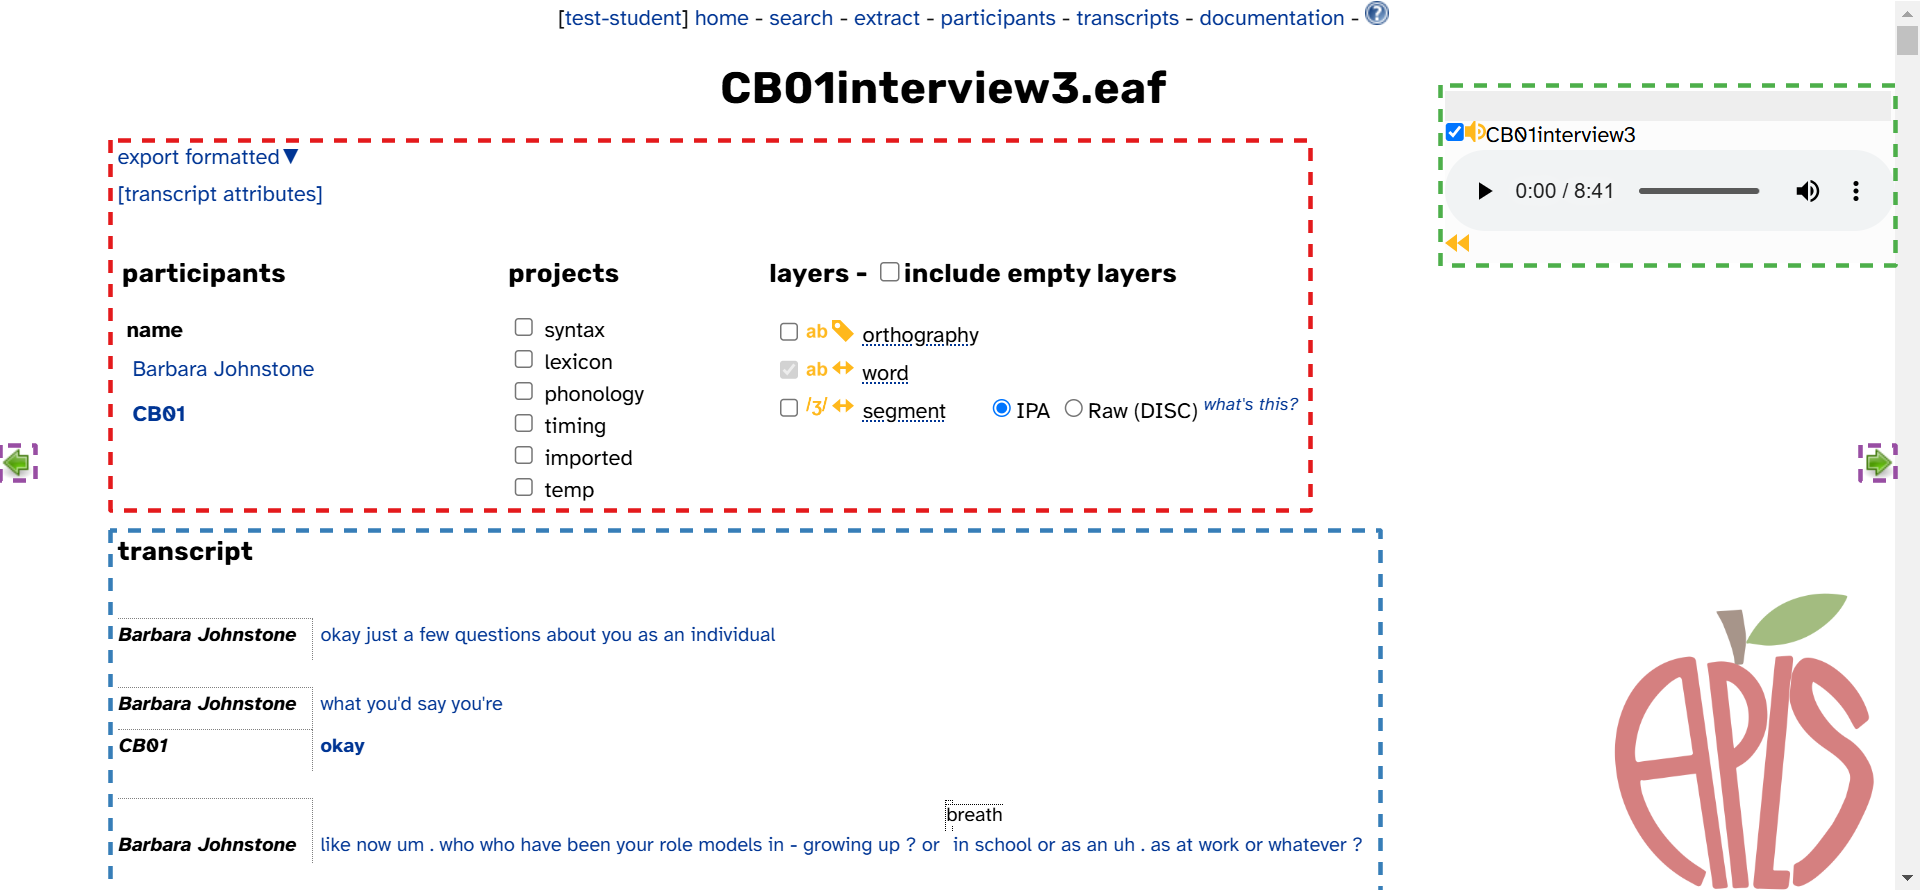
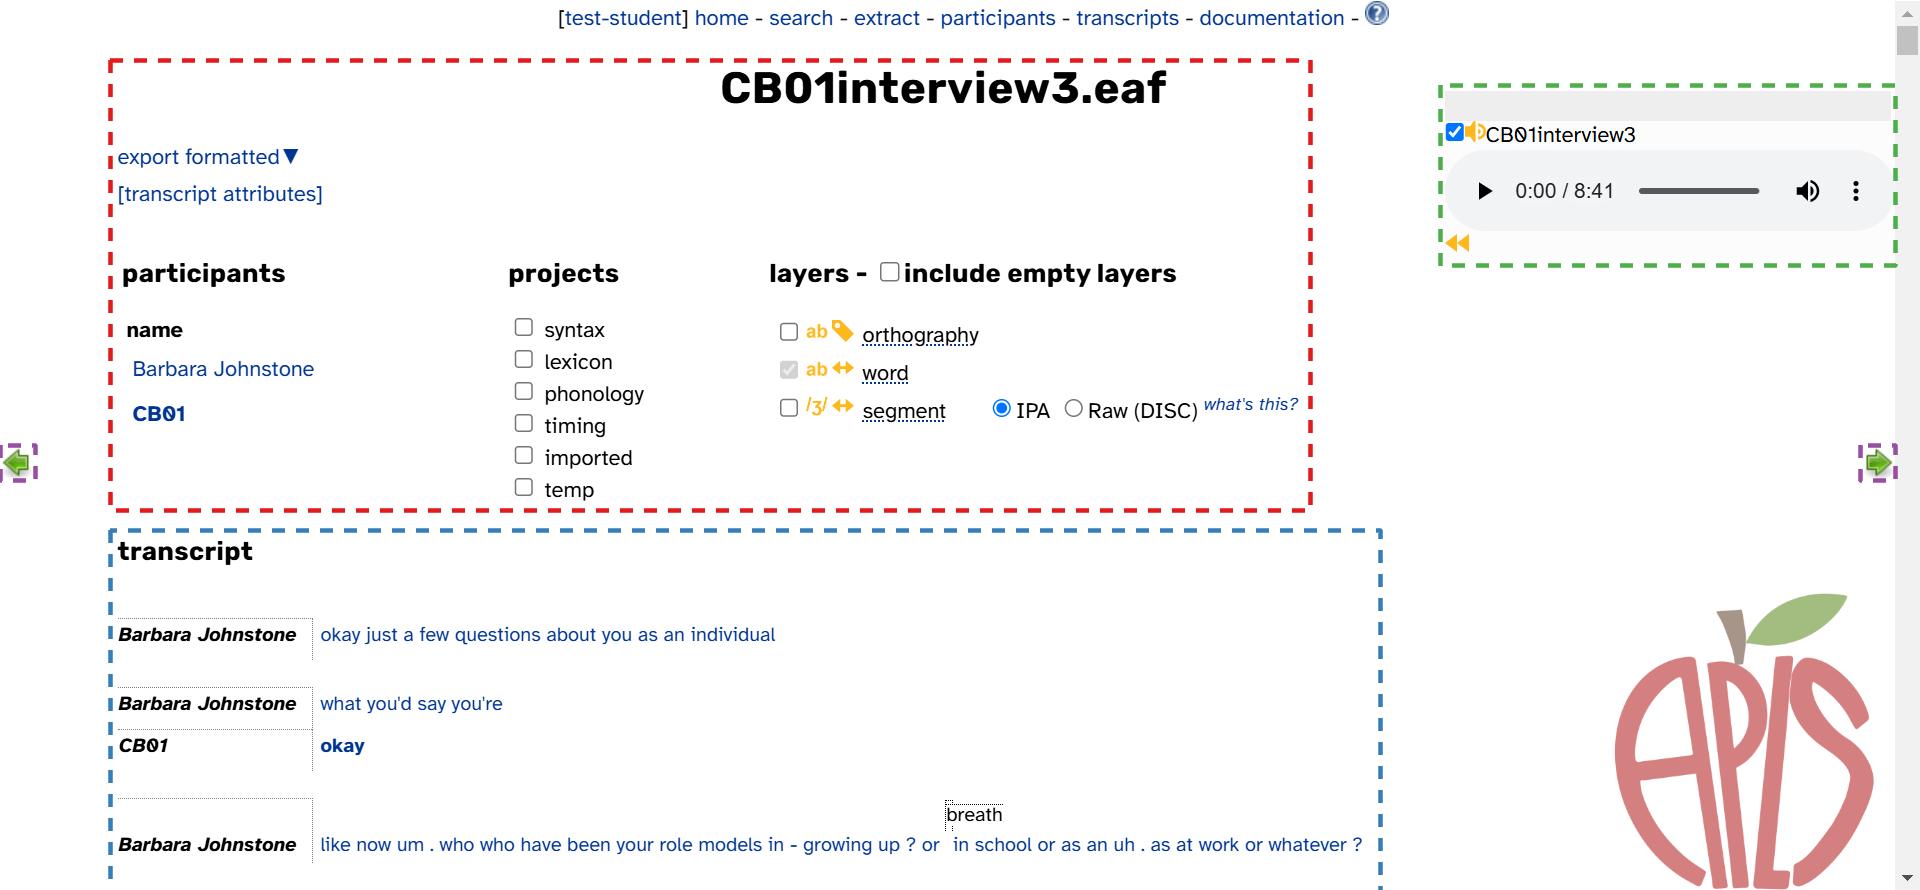
view-transcript: Add try-its, more content on transcript header

diff --git a/_includes/linklist.html b/_includes/linklist.html
@@ -1,3 +1,4 @@
+[bird and liberman 1999]: https://arxiv.org/abs/cs/9903003
 [celex]: https://catalog.ldc.upenn.edu/LDC96L14
 [elan]: https://archive.mpi.nl/tla/elan
 [fromont 2017]: http://doi.org/10.1016/j.csl.2017.01.004

diff --git a/doc/how-to-use/view-transcript.md b/doc/how-to-use/view-transcript.md
@@ -5,15 +5,18 @@ parent: How to use APLS
 has_children: yes
 has_toc: no
 nav_order: 20
-last_modified_date: 2025-02-11T16:19:05-05:00
+last_modified_date: 2025-02-24T13:13:59-05:00
 ---
 
 # {{ page.title }}
 {:.no_toc}
 
-A <span class="keyterm">transcript</span> is a collection of <span class="keyterm">annotations</span> on numerous <span class="keyterm">layers</span> corresponding to a single audio file, plus metadata like when the audio file was originally recorded.
+A <span class="keyterm">transcript</span> is a collection of <span class="keyterm">annotations</span> on numerous <span class="keyterm">layers</span> corresponding to a single audio file, plus <span class="keyterm">transcript attributes</span> like when the audio file was originally recorded.
 In APLS, each transcript has a single <span class="keyterm">main participant</span> and corresponds to a section of that participant's sociolinguistic interview.
 Each transcript has its own page in APLS.
+
+{: .note .no-collapse }
+> On this page, we use the term _transcript_ for the underlying data in the APLS corpus, and _transcript **page**_ for the webpage you can use to view transcript data.
 
 {: .try-it }
 > As we'll cover [below](#accessing-transcript-pages), there are a few ways to access individual transcript pages.
@@ -22,91 +25,208 @@ Each transcript has its own page in APLS.
 
 {% include page_toc.html collapsible=true %}
 
-## Transcript View page layout
+## Transcript page layout
 
-The page layout for individual transcript pages can be divided into three main areas:
+Individual transcript pages have two sections, plus some elements that remain in the same position on the page as you scroll. This is highlighted in the following screengrab:
 
-- The <span class="keyterm">media player</span> and <span class="keyterm">transcript navigation arrows</span>, which remain in the same position on the page as you scroll. 
+![]({{ '/assets/screengrab/view-transcript/view-transcript-overview.png' | relative_url }})
 
-- The <span class="keyterm">transcript header</span>, which includes general information about the transcript, exported format options, and settings for choosing what layers are displayed in the transcript body.
-
-- The <span class="keyterm">transcript body</span>, which displays the actual content of the transcript.
+- Sections: 
+  - The [transcript header](#transcript-header), highlighted in **red**{:.hl-1}. This includes information about the transcript, a menu for exporting the transcript in various formats, and settings for choosing which layers are displayed in the transcript body.
+  - The [transcript body](#transcript-body), highlighted in **blue**{:.hl-2}. This displays the actual content of the transcript. It continues all the way down the page.
+- Fixed elements:
+  - The [media player](#media-player-and-navigation-arrows), highlighted in **green**{:.hl-3}.
+  - The [navigation arrows](#media-player-and-navigation-arrows), highlighted in **purple**{:.hl-4}.
 
 ## Media player and navigation arrows
 
-There are two features of the Transcript View page that are fixed elements, meaning that they remain in the same place on the page regardless of where you scroll.
-These elements are the in-browser media player and the transcript navigation arrows.
+There are two features of the transcript page that are fixed elements, meaning that they remain in the same place on the page regardless of where you scroll.
+These elements are the in-browser media player and the transcript navigation arrows (see previous screengrab).
 
-![]({{ '/assets/screengrab/view-transcript/view-transcript-fixed-elements.png' | relative_url }})
+The transcript navigation arrows allow you to move from one transcript to the either the previous transcript or the next transcript in the interview.
+These arrows are hidden if you are looking at the first or last transcript in the interview.
 
-The transcript navigation arrows allow you to move from one transcript to the either the previous transcript or the next transcript in the series (when applicable; i.e., `CB01interview1.eaf` is the first transcript so it does not have a previous transcript).
+{: .try-it }
+> On the transcript page for `CB01interview3.eaf`, click the "previous" button.
+> This will load the transcript page for `CB01interview2.eaf`.
+> Then, click the "next" button to go back to `CB01interview3.eaf`.
 
-The in-browser media player allows you to listen to the audio recording for the transcript, in addition to providing the functionality to play audio of individual utterances as described [below](#transcript-body).
-The media player also allows you to control the volume and playback speed of the audio.
+{: .under-the-hood }
+> The URL for a transcript page looks a little different when you use the "previous" or "next" buttons.
+> For example, the URL for `CB01interview3.eaf` ends with `?ag_id=354` (rather than `?transcript=CB01interview3.eaf`) when it's reached from the "previous" or "next" button.
+> The `ag` is short for _annotation graph_, the data model that [LaBB-CAT] corpora are based on.
+> For more information, see [Bird and Liberman (1999)][bird and liberman 1999] and [Fromont (2017)][fromont 2017].
 
-If your media player is displaying a small Praat logo (as shown below), this indicates that you do not have Praat integration set up.
-You can learn more about enabling Praat integration [here]({{ '/doc/transcript-praat' | relative_url }}).
+The in-browser media player allows you to listen to audio from the transcript, control the volume, and (via the &vellip; menu) control the playback speed.
+While the audio is playing, the transcript body will highlight the utterance (line) that is currently playing.
+You can also listen to audio through the [word menu](#word-menu).
 
-![]({{ '/assets/screengrab/view-transcript/view-transcript-media-player.png' | relative_url }})
+If your media player is displaying a small Praat logo (as shown below), this indicates that you do not have the Praat integration set up.
+You can learn more about enabling the Praat integration [here]({{ '/doc/praat-integration' | relative_url }}).
+
+![]({{ '/assets/screengrab/view-transcript/view-transcript-no-praat-player.png' | relative_url }})
+
 
 ## Transcript header
 
-The transcript header provides the name of the transcript file, format options for transcript downloads, collapsible attributes, participant codes, and check boxes that control which project categories and layers are displayed in the transcript.
+The transcript header provides information about the transcript, options for exporting a formatted transcript, and check boxes that control what data is displayed in the transcript body.
 
 ![]({{ '/assets/screengrab/view-transcript/view-transcript-header.png' | relative_url }})
 
-At the top of the transcript header is the name of the transcript file. In the screenshot, this is `CB01interview1.eaf`.
+- At the top of the transcript header is the name of the transcript file (in this case, `CB01interview3.eaf`).
+- Most important is the [layer selector](#layer-selector), highlighted in **red**{:.hl-1}. This controls which layers are displayed in the transcript.
+- [_export formatted ▼_](#export-formatted-▼), highlighted in **blue**{:.hl-2}: a drop-down menu that allows you to download the current transcript in multiple formats.
+- [_[transcript attributes]_](#transcript-attributes-panel), highlighted in **green**{:.hl-3}: a collapsible panel that displays <span class="keyterm">transcript attributes</span>.
+- A list of [participants](#participants-list), highlighted in **purple**{:.hl-4}, with links to [attributes pages]({{ '/doc/browse-participants#participant-attributes-pages' | relative_url }}).
 
-### Export formatted files
 
-Below the transcript file name is the _export formatted_ drop-down menu. 
+### _export formatted ▼_
 
-![]({{ '/assets/screengrab/view-transcript/view-transcript-formats.png' | relative_url }})
+The _export formatted ▼_ drop-down menu allows you to download the current transcript in any of the listed file types:
 
-This menu allows you to download the current transcript in any of the listed file types.
+![]({{ '/assets/screengrab/view-transcript/view-transcript-export-formatted.png' | relative_url }})
 
-### Attributes
+{: .try-it }
+> On the `CB01interview3.eaf` transcript page (https://apls.pitt.edu/labbcat/transcript?transcript=CB01interview3.eaf):
+> 
+> 1. Make sure only the <span class="layer">word</span> layer is selected.
+> 1. Click _export formatted ▼_.
+> 1. Click _Praat TextGrid_.
+> 1. Open the TextGrid in [Praat].
 
-Underneath the _export formatted_ menu is the collapsible _attributes_ information. 
+At a minimum, the exported file will include the <span class="layer">utterance</span> and <span class="layer">word</span> layers.
+It will also include any layers you have [selected](#layer-selector) to show in the transcript body.
+Some transcript formats also show additional layers from the [original uploaded transcription]({{ '/doc/transcription' | relative_url }}): <span class="layer">noise</span>, <span class="layer">comment</span>, and <span class="layer">pronounce</span>.
+
+{: .note }
+> If you need greater control over which layers to export, use the [_Export Formatted_ menu on the _transcripts_ page]({{ '/doc/browse-transcripts#export-formatted' | relative_url }}).
+
+The file format affects not only _which_ layers are included, but _how_ they are displayed.
+For example, in *[Praat] TextGrid*s and *[Elan] EAF Transcript*s, there is one tier for each speaker's <span class="layer">utterance</span> annotations (labeled, for example, `Barbara Johnstone` tier and one `CB01` tier) and one tier for each speaker's <span class="layer">word</span> annotations (e.g., `word - Barbara Johnstone` and `word - CB01`);
+these annotations are all time-aligned.
+In *Plain Text Document*s and *PDF Document*s, <span class="layer">utterance</span>s are separated by line breaks and <span class="layer">word</span>s are simply listed within each utterance;
+these annotations are _not_ time-aligned and there's no way to tell whether speech is overlapping.
+As a result, the *Plain Text Document*s and *PDF Document* formats are better for a readable or skimmable overview of who said what, and not very useful as structured linguistic data.
+
+{: .try-it }
+> 1. Open the TextGrid from the previous try-it.
+>
+> You should see four tiers, two per speaker: one for each speaker's <span class="layer">utterance</span> annotations (labeled `Barbara Johnstone` and `CB01`) and one for each speaker's <span class="layer">word</span> annotations (labeled `word - Barbara Johnstone` and `word - CB01`).
+> * * *
+> Now let's zoom into the first Barbara Johnstone utterance (`okay just a few questions about you as an individual`):
+>
+> 1. Click that interval in the `Barbara Johnstone` tier.
+> 1. Either click _sel_ in the bottom-left of the TextGrid window, or hit `<ctrl>/<cmd>+N`.
+> 
+> You should see that each of the words in the utterance has its own interval in `word - Barbara Johnstone`:
+> 
+> ![]({{ '/assets/screengrab/view-transcript/view-transcript-export-praat-1.png' | relative_url }})
+> * * *
+> Finally, let's see how overlaps look in an exported TextGrid.
+> According to the transcript page, there's an overlap when Barbara Johnstone says `what you'd say you're` and CB01 says `okay`, right after Barbara's first utterance
+> 
+> 1. Zoom into the next `Barbara Johnstone` interval in the TextGrid.
+>
+> You should see a `CB01` interval that lines up with the `Barbara Johnstone` interval, plus words on _both_ speakers' `word - ` tiers.
+> ![]({{ '/assets/screengrab/view-transcript/view-transcript-export-praat-2.png' | relative_url }})
+
+
+As previously mentioned, the exported file will include any layers you have [selected](#layer-selector) to show in the transcript body.
+Unlike in the transcript body, phonological layers (like <span class="layer">segment</span>) are always displayed in the [DISC phonemic alphabet]({{ '/doc/phonemic-transcription' | relative_url }}).
+
+{: .try-it }
+> On the `CB01interview3.eaf` transcript page:
+> 
+> 1. Select the <span class="layer">segment</span> layer.
+> 1. Click _export formatted ▼_.
+> 1. Click _Praat TextGrid_.
+> 1. Open the TextGrid in Praat.
+>
+> Compared to the previous try-it, you should see two new tiers: a `segment - ` tier for each speaker.
+> If you zoom in on an individual word, you should see that each of the segments has its own interval:
+>
+> ![]({{ '/assets/screengrab/view-transcript/view-transcript-export-praat-3.png' | relative_url }})
+
+Finally, if a layer allows [vertical peers]({{ '/doc/layer-typology#vertical-peers' | relative_url }}) (with a ![]({{ '/assets/img/vertical-peers.svg' | relative_url }}){: style="height:1rem;"} icon in the [layer selector](#layer-selector)), the exported file may show multiple tiers per speaker:
+
+{: .try-it }
+> On the `CB01interview3.eaf` transcript page:
+> 
+> 1. Unselect <span class="layer">segment</span> and select <span class="layer">dictionary_phonemes</span>.
+> 1. Export to _Praat TextGrid_ and open in [Praat].
+>
+> You should see **three** `dictionary_phonemes - ` tiers per speaker.
+> This is because some words have more than one possible phonemic representation, such as /æz/ or /əz/ for _as_.
+> ![]({{ '/assets/screengrab/view-transcript/view-transcript-export-praat-3.png' | relative_url }})
+
+
+### [transcript attributes] panel
+
+Underneath the _export formatted_ menu is the collapsible _[transcript attributes]_ panel
+This panel shows' <span class="keyterm">transcript attributes</span> display titles in the left-hand column (e.g., `Neighborhood`) and values in the right-hand column (e.g., `Cranberry Township`).
 
 ![]({{ '/assets/screengrab/view-transcript/view-transcript-attributes.png' | relative_url }})
 
-You can hover over the field names, like "Neighborhood" and "Recording date", for more information about the data in those fields.
+You can hover over a display title for a short description of that attribute.
 
-### Participants
+![]({{ '/assets/screengrab/view-transcript/view-transcript-attribute-hover.png' | relative_url }})
+
+{% comment %}
+(I want to change the UI for this.)
+{% endcomment %}
+
+Blanks in the right-hand column mean that this transcript doesn't have any value for that attribute.
+For example, the previous screengrabs show a blank for `Transcription AI tool(s)` because the <span class="transcript-attr">transcription_ai_tools</span> attribute is empty for `CB01interview3.eaf`;
+no AI tools were used to transcribe that interview.
+
+{: .note }
+> To export transcript attributes to a CSV file, use the [_Export Attributes_ menu on the _transcripts_ page]({{ '/doc/browse-transcripts#export-attributes' | relative_url }}).
+
+
+### Participants list
 
 Below _attributes_ are the <span class="keyterm">participants</span> in the transcript. 
 
 ![]({{ '/assets/screengrab/view-transcript/view-transcript-participants.png' | relative_url }})
 
-Participant codes for interviewees are displayed in **bold**. 
-Clicking a name in the participants section will take you to the information page for that participant, which is explained in more detail on the [Browsing participants]({{ '/doc/browse-participants' | relative_url }}) documentation page.
+Participant codes for main participants are displayed in **bold**. 
+Clicking a participant code will take you to that participant's [attributes page]({{ '/doc/browse-participants#participant-attributes-pages' | relative_url }}).
 
-### Projects and layers
+
+### Layer selector
 
 The **projects** and **layers** sections control what information is displayed in the transcript body.
 
 ![]({{ '/assets/screengrab/view-transcript/view-transcript-projects-layers.png' | relative_url }})
 
+{% comment %}turning on/off layers and the page reload delay{% endcomment %}
+
+{% comment %}layer icons (tho maybe wait on this because vertical peers is in a project){% endcomment %}
+
 {: .note }
-> By default, the <span class="layer">word</span> layer is always turned on and cannot be turned off.
+> The <span class="layer">word</span> layer cannot be turned off (which is why its checkbox is grayed-out).
 
 To make more layer options appear in the **layers** section, the project that corresponds to that layer must be turned on in the **projects** section.
 
 You can hover over the names of the projects to view a brief description of the layers associated with that project.
-You can also read more about projects on the [Layers: Typology]({{ '/doc/typology#project-categories' | relative_url }}) documentation page.
+You can also read more about projects on the [Layer typology]({{ '/doc/layer-typology#project' | relative_url }}) documentation page.
 
 ![]({{ '/assets/screengrab/view-transcript/view-transcript-project-timing.png' | relative_url }})
 
 As shown in the screenshot above, toggling the _timing_ project causes the **layers** section to display layers that are included in the timing project category.
-You can learn more about layers on the [Layer reference]({{ '/doc/layer-reference' | relative_url }}) documentation pages.
+You can learn more about layers in the [Layers and attributes]({{ '/doc/layers-and-attributes' | relative_url }}) documentation pages.
 
-<!--The layer options are ordered by scope from largest to smallest, then by project in the order shown in the projects column, and then by alphabetic order.-->
+{% comment %}"include empty layers"{% endcomment %}
+
+{: .under-the-hood }
+> The layer options are ordered by scope from largest to smallest, then by project in the order shown in the projects column, and then by alphabetic order.
 
 Layers with phonological information have an additional toggle to switch between IPA transcriptions and Raw (DISC) transcriptions.
 You can read more about DISC and why APLS uses it on the [Phonemic transcription]({{ '/doc/phonemic-transcription' | relative_url }}) documentation page.
 
 Selecting one or more of the options in **layers** section will cause that layer to be displayed in the transcript body.
+
+
 
 ## Transcript body
 
@@ -127,7 +247,7 @@ Clicking on any of the blue words in the transcript will bring up the word menu 
 ![]({{ '/assets/screengrab/view-transcript/view-transcript-transcript-body2.png' | relative_url }})
 
 {: .note }
-> For instructions on setting up Praat integration for your web browser, visit the [Viewing transcript segments in Praat]({{ '/doc/transcript-praat' | relative_url }}) documentation page.
+> For instructions on setting up the Praat integration for your web browser, visit the [Viewing transcript segments in Praat]({{ '/doc/praat-integration' | relative_url }}) documentation page.
 
 When an utterance has overlapping speech from multiple speakers, the left-hand side of the transcript will show all the speakers who have transcribed speech for that portion of audio.
 Participant speech is **bolded** in APLS to make it easier to distinguish from the interviewer's speech.
@@ -141,18 +261,24 @@ An example of this is shown below.
 ![]({{ '/assets/screengrab/view-transcript/view-transcript-transcript-body4.png' | relative_url }})
 
 {: .note }
-> It is possible to use CTRL+F to search a transcript page for singular words but not for multi-word strings due to the underlying HTML of the transcript view pages (e.g., CTRL+F will work to find the word 'filing' but it won't find the phrase 'filing cabinet').
+> It is possible to use CTRL+F to search a transcript page for singular words but not for multi-word strings due to the underlying HTML of the transcript pages (e.g., CTRL+F will work to find the word 'filing' but it won't find the phrase 'filing cabinet').
 
-## Accessing transcript pages
+## Accessing transcript pages 
 
-There are multiple ways to access the Transcript View page for individual transcripts.
+There are multiple ways to reach a transcript page in APLS:
 
-The easiest is the [_transcripts_ page]({{ '/doc/browse-transcripts' | relative_url }}) at <https://apls.pitt.edu/labbcat/transcripts>. 
+- The _transcripts_ page at <https://apls.pitt.edu/labbcat/transcripts>, as described on the [Browsing transcripts]({{ '/doc/browse-transcripts' | relative_url }}) documentation page.
+  > Go to the _transcripts_ page (<https://apls.pitt.edu/labbcat/transcripts>) and click on _CB01interview3.eaf_ to view that transcript.
+  {: .try-it }
+- Via the transcript page's URL, which is in the form of `https://apls.pitt.edu/labbcat/transcript?transcript=` followed by the transcript's name.
+  > Click the URL <https://apls.pitt.edu/labbcat/transcript?transcript=CB01interview3.eaf>.
+  > This will take you directly to the transcript page for `CB01interview3.eaf`.
+  {: .try-it }
+- Once you have a transcript page open, you can use navigation arrows to move to a different transcript, as described [above](#media-player-and-navigation-arrows).
 
-Once you have a transcript open in a Transcript View page, you can use navigation arrows to move to a different transcript, as described [above](#media-player-and-navigation-arrows).
+In addition, there are two ways to access transcripts from the results of a search (see [Searching the corpus]({{ '/doc/search' | relative_url }})):
 
-You can access transcripts through the Search results page by clicking on hyperlinked text, as described on the [Searching the corpus]({{ '/doc/search' | relative_url }}) documentation page.
-
-You can also get to the Transcript View page for a transcript by navigating directly to the page's URL, which is in the form of `https://apls.pitt.edu/labbcat/transcript?transcript=` followed by the transcript's file name (e.g., the direct link for transcript file `CB01interview1.eaf` is `https://apls.pitt.edu/labbcat/transcript?transcript=CB01interview1.eaf`)
+- Through the search results page by clicking on hyperlinked text. This will load the transcript page and scroll directly to the search result you clicked.
+- If you export search results to CSV (see [Exporting data]({{ '/doc/export-data' | relative_url }})), the `URL` column has links that load the transcript page and scroll directly to the search result corresponding to each row.
 
 {% include linklist.html %}
